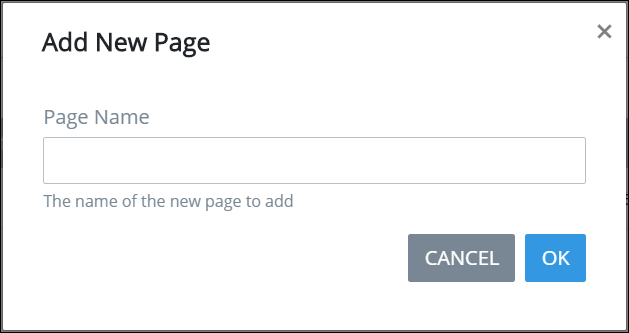
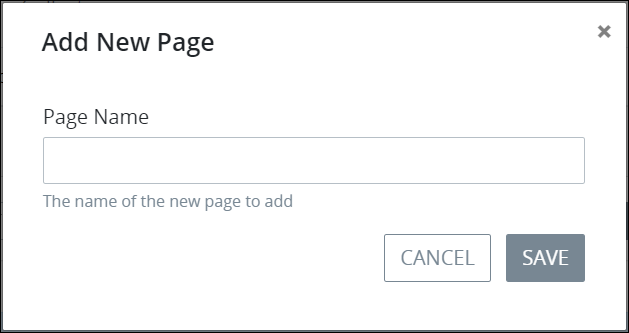
GitBook: [processmaker] one page and 5 assets modified

diff --git a/designing-processes/design-forms/screens-builder/add-a-new-page-to-a-screen.md b/designing-processes/design-forms/screens-builder/add-a-new-page-to-a-screen.md
@@ -21,17 +21,17 @@ See the ProcessMaker [Screens](../../../processmaker-administration/permission-d
 
 Follow these steps to add a new page to a ProcessMaker Screen:
 
-1. [Create](../manage-forms/create-a-new-form.md) or [open](../manage-forms/view-all-forms.md) the ProcessMaker Screen in which to add a new page. The ProcessMaker Screen is in [Editor mode](screens-builder-modes.md#editor-mode).
-2. Click the **+ Add Page** button. The **Add New Page** screen displays.  
+1. [Create](../manage-forms/create-a-new-form.md) or [open](../manage-forms/view-all-forms.md) the ProcessMaker Screen in which to add a new page. The ProcessMaker Screen is in [Design mode](screens-builder-modes.md#editor-mode).
+2. Click the![](../../../.gitbook/assets/add-page-button-screens-builder-processes.png)button. The **Add New Page** screen displays.  
 
    ![](../../../.gitbook/assets/add-new-page-screen-screens-editor-processes.png)
 
 3. In the **Page Name** field, enter the name of the new page.
-4. Click **OK**. The new page displays in a new vertical tab.
+4. Click **Save**. The new page displays in the drop-down menu of pages for that ProcessMaker Screen.
 
-Access each page from its tab. The selected page displays in black-colored text. Other pages display in blue-colored text.
+Access each page from its the drop-down menu of pages for that ProcessMaker Screen.
 
-![Multiple pages in Screens Builder](../../../.gitbook/assets/multiple-pages-in-screens-builder-processes.png)
+![Multiple pages in a ProcessMaker Screen](../../../.gitbook/assets/multiple-pages-in-screens-builder-processes.png)
 
 ## Delete a Page from a ProcessMaker Screen
 
@@ -46,9 +46,12 @@ See the ProcessMaker [Screens](../../../processmaker-administration/permission-d
 
 Follow these steps to delete a page from a ProcessMaker Screen:
 
-1. [Open](../manage-forms/view-all-forms.md) the ProcessMaker Screen in which to delete a page. The ProcessMaker Screen is in [Editor mode](screens-builder-modes.md#editor-mode).
-2. Locate the name of the page you want to delete and then click the icon![](../../../.gitbook/assets/options-list-delete-option-icon-screens-builder-processes.png)on that page's tab.
-3. Click on another page's tab. The page is deleted.
+1. [Open](../manage-forms/view-all-forms.md) the ProcessMaker Screen in which to delete a page. The ProcessMaker Screen is in [Design mode](screens-builder-modes.md#editor-mode).
+2. Select the page from its the drop-down menu of pages for that ProcessMaker Screen.  
+
+   ![](../../../.gitbook/assets/multiple-pages-in-screens-builder-processes.png)
+
+3. Click the![](../../../.gitbook/assets/delete-screen-control-screens-builder-processes.png)button. The page is deleted.
 
 ## Rename a Page
 
@@ -63,13 +66,17 @@ See the ProcessMaker [Screens](../../../processmaker-administration/permission-d
 
 Follow these steps to rename a page on a ProcessMaker Screen:
 
-1. [Create](../manage-forms/create-a-new-form.md) or [open](../manage-forms/view-all-forms.md) the ProcessMaker Screen in which to add a new page. The ProcessMaker Screen is in [Editor mode](screens-builder-modes.md#editor-mode).
-2. Click **Edit** on the tab in which to rename its page. The **Edit Page Title** screen displays.  
+1. [Create](../manage-forms/create-a-new-form.md) or [open](../manage-forms/view-all-forms.md) the ProcessMaker Screen in which to add a new page. The ProcessMaker Screen is in [Design mode](screens-builder-modes.md#editor-mode).
+2. Select the page from its the drop-down menu of pages for that ProcessMaker Screen.  
+
+   ![](../../../.gitbook/assets/multiple-pages-in-screens-builder-processes.png)
+
+3. Click the![](../../../.gitbook/assets/edit-page-button-screens-builder-processes.png)button. The **Edit Page Title** screen displays.  
 
    ![](../../../.gitbook/assets/edit-page-title-screen-screens-builder-processes.png)
 
-3. Edit in the **Page Name** field the name of the page.
-4. Click **OK**.
+4. Edit in the **Page Name** field the name of the page.
+5. Click **Save**.
 
 ## Related Topics
 
